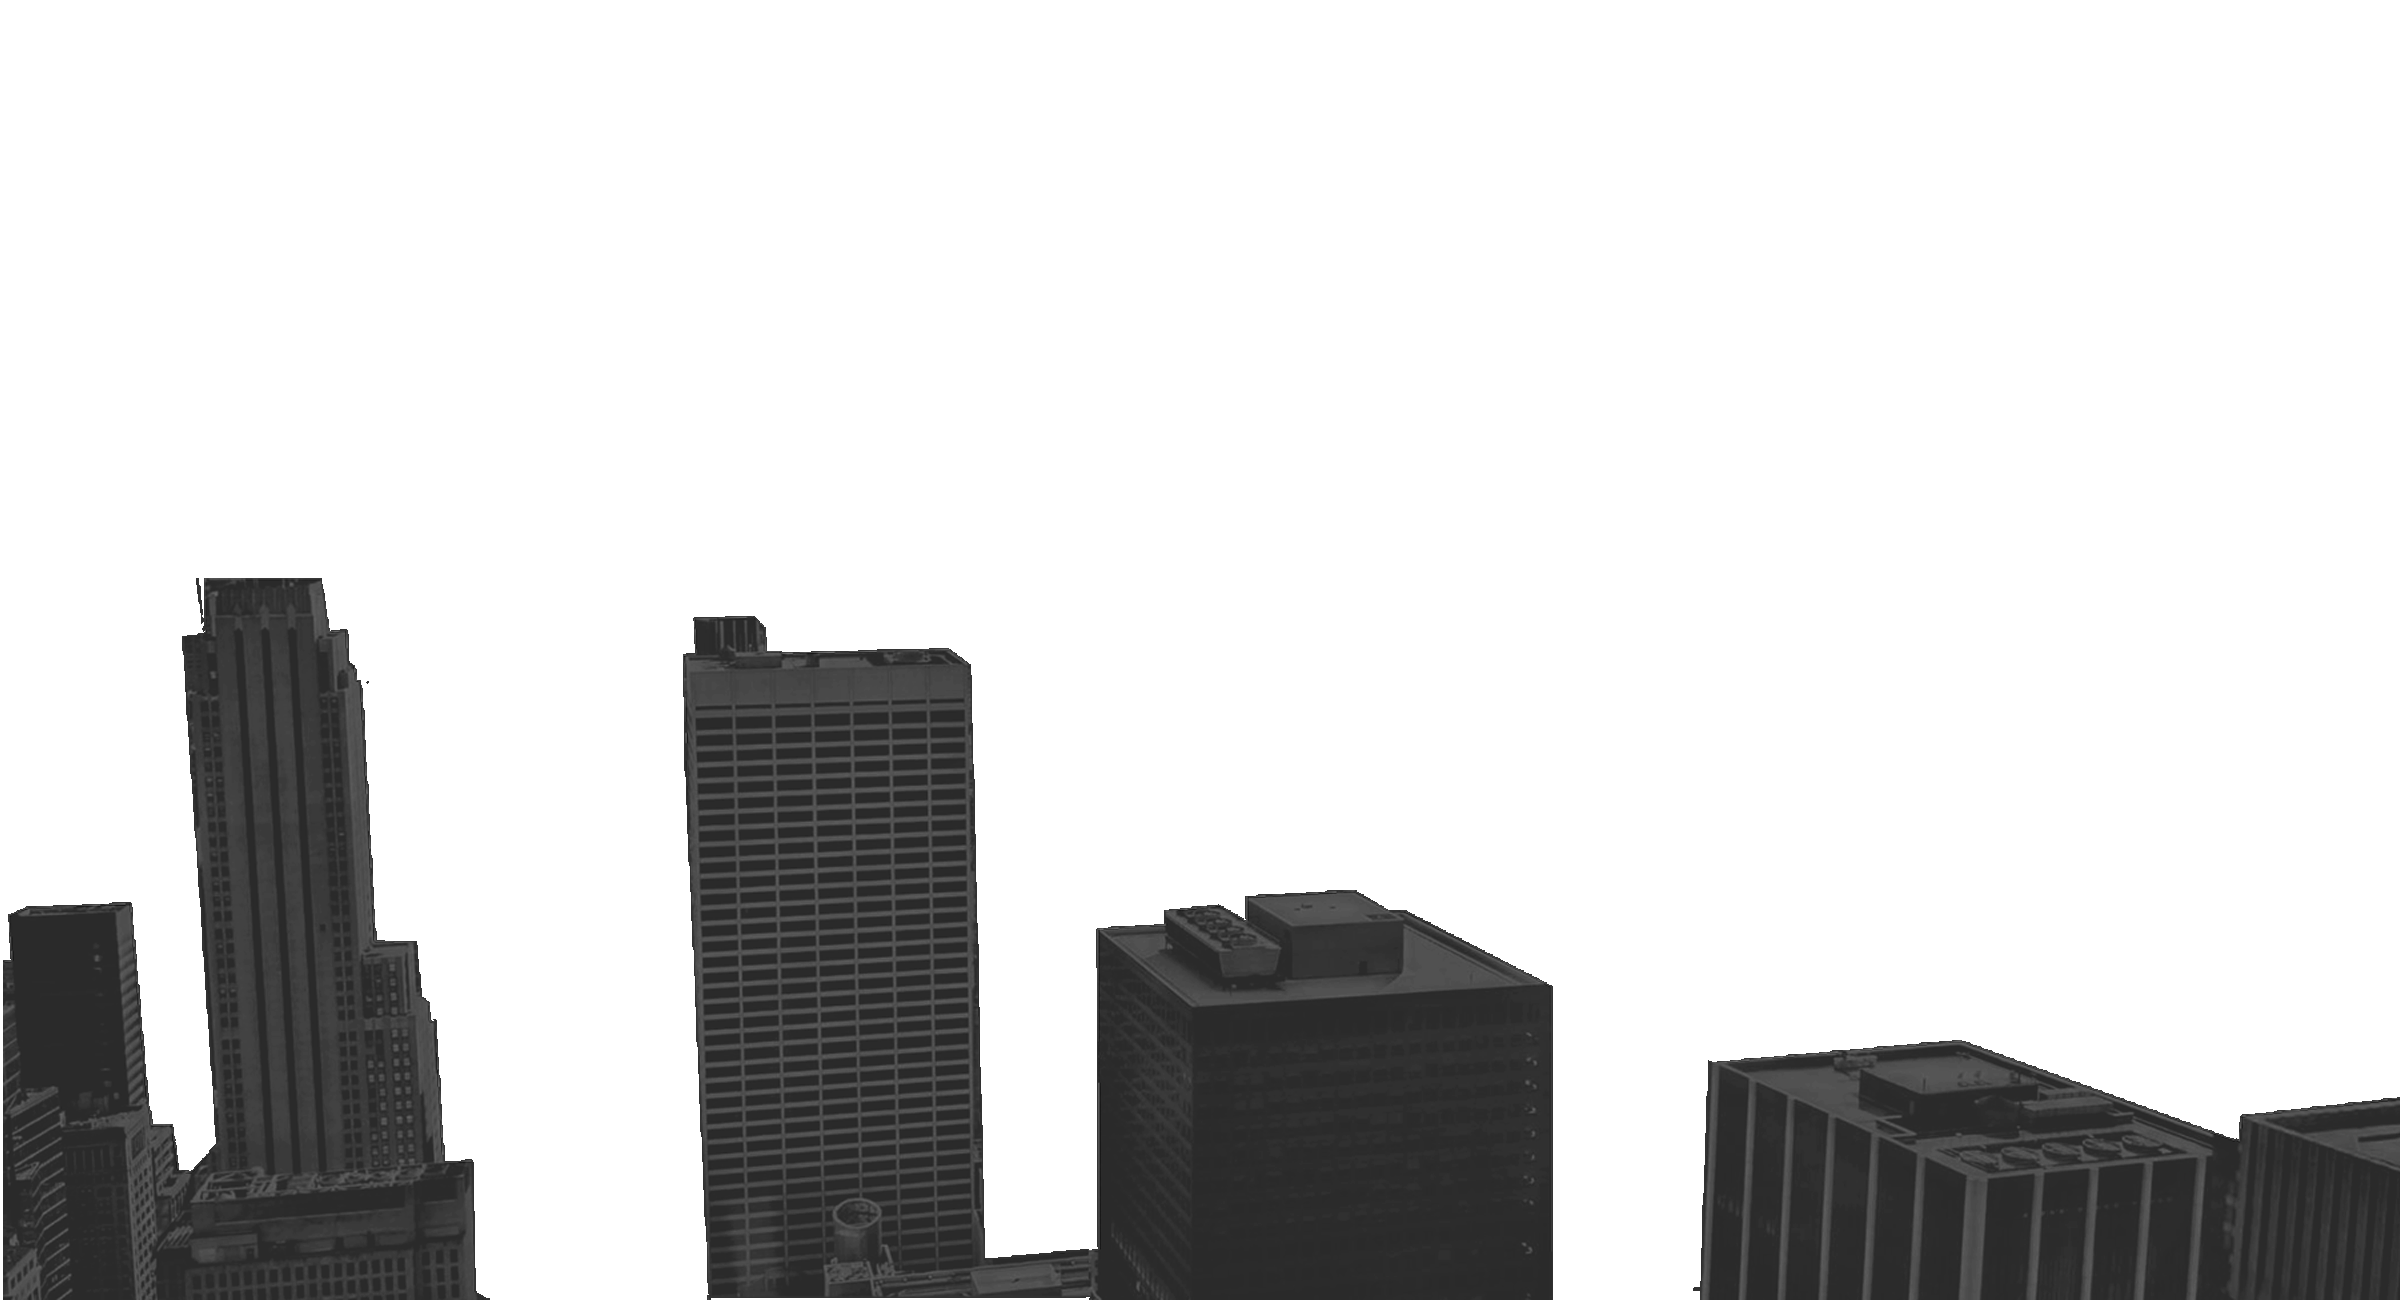
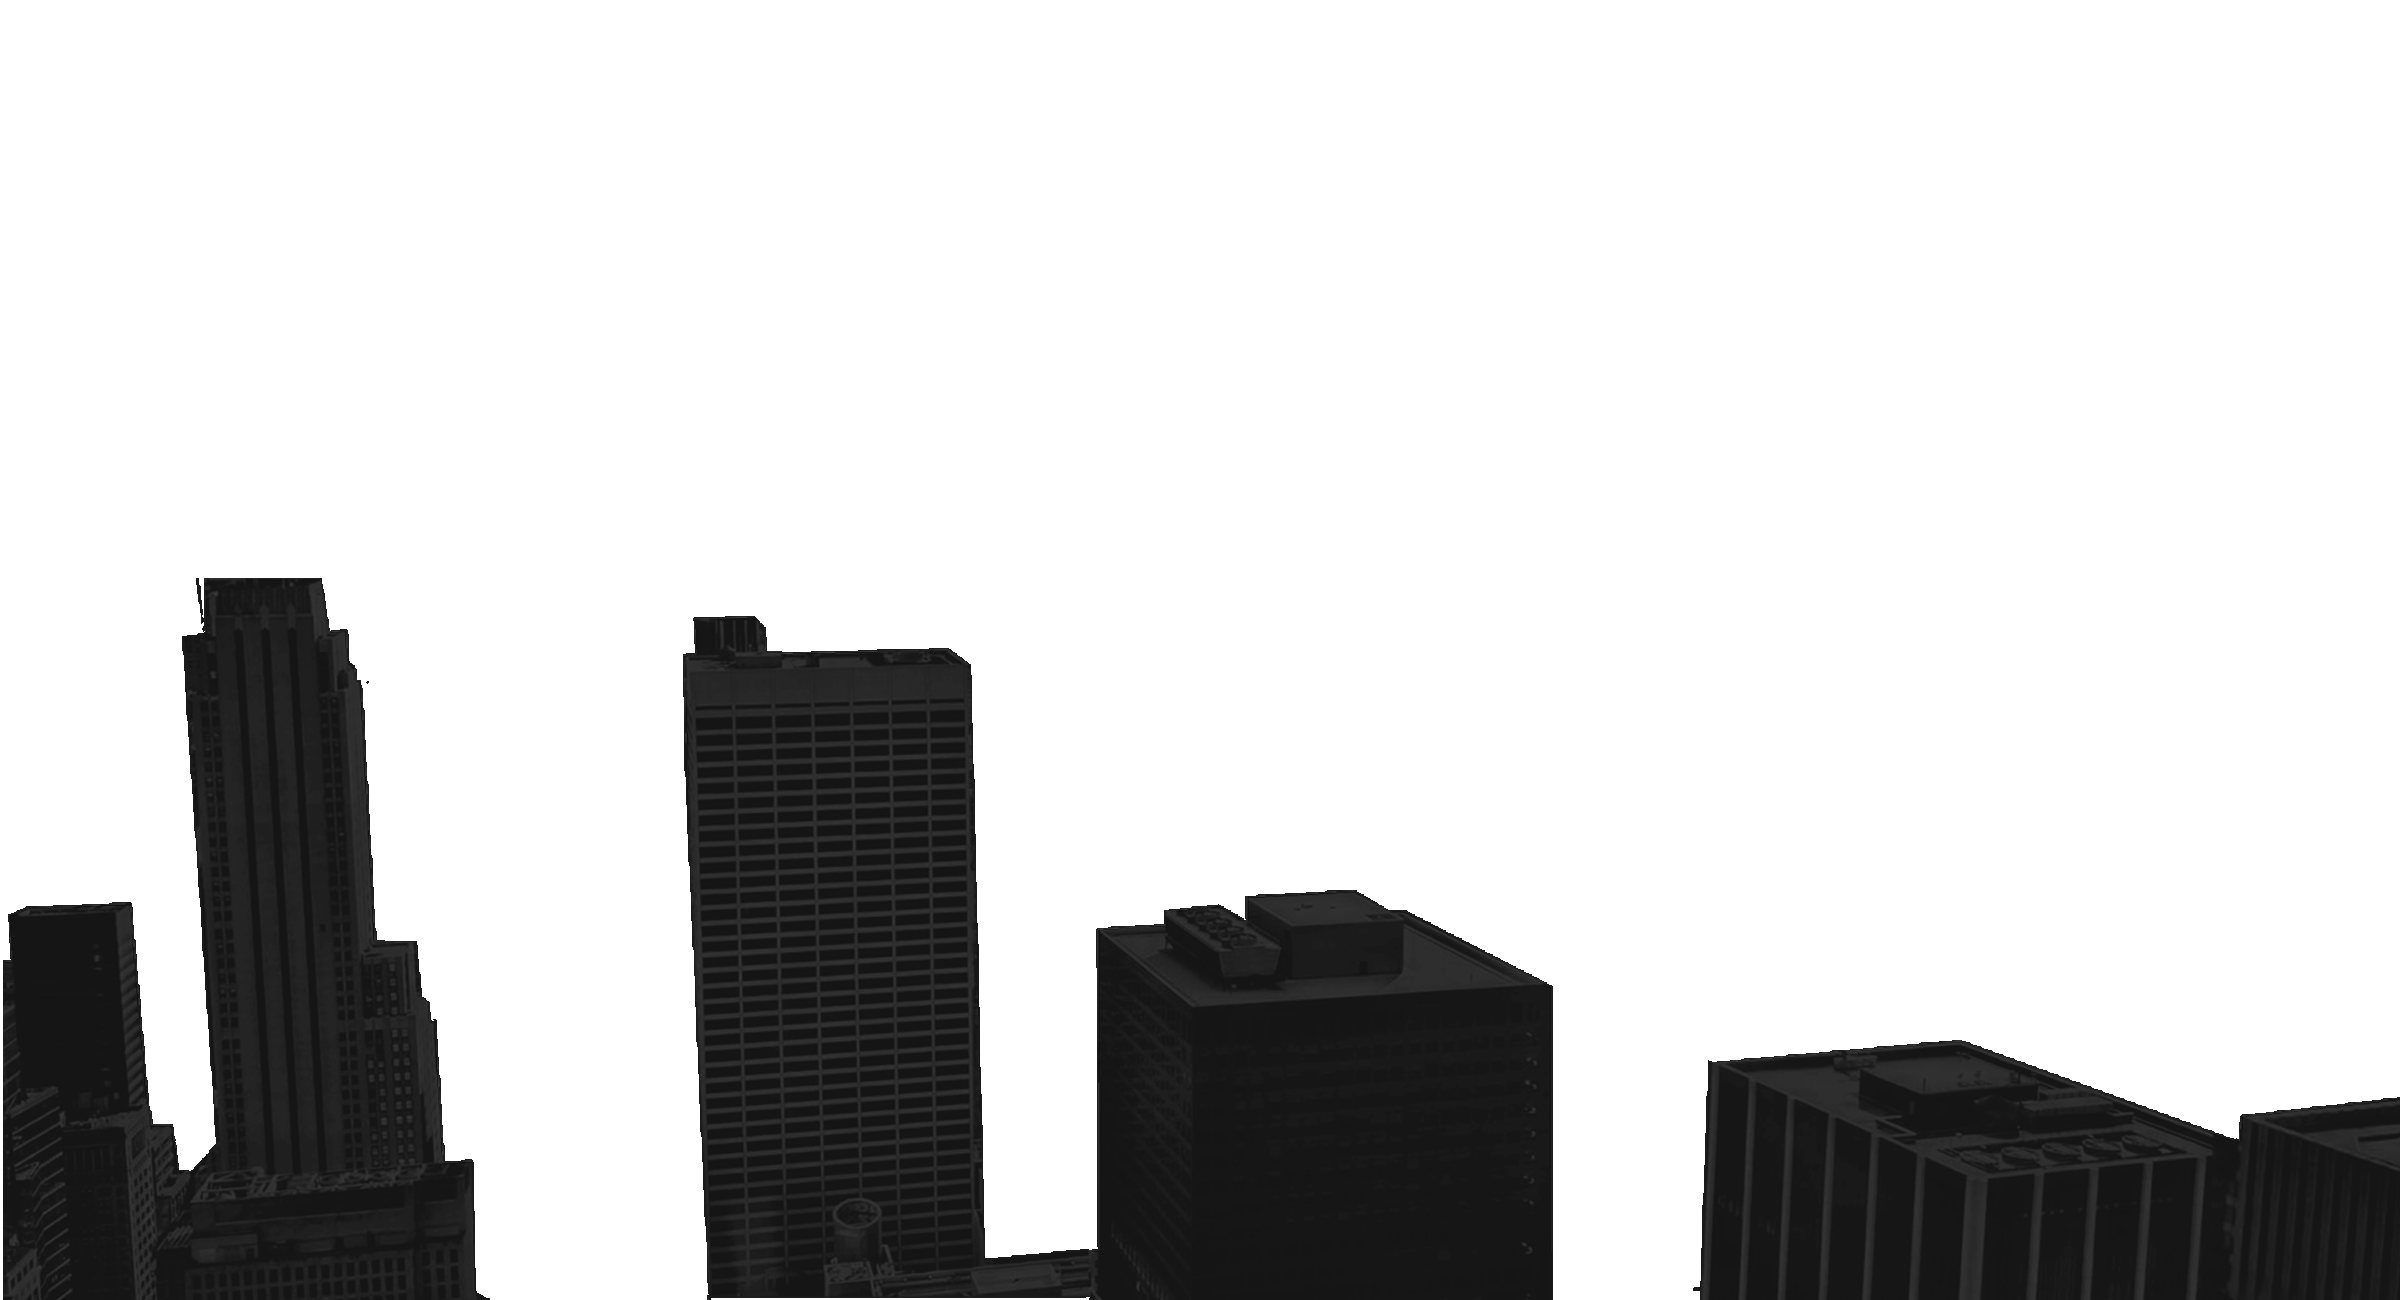
Almost There

diff --git a/js/index.js b/js/index.js
@@ -50,7 +50,7 @@ if (!isMobile()){
 //) && (window.matchMedia("(min-width: 850px)").matches) {
 					/* the view port is at least 850 pixels wide */
 $('#fullpage').fullpage({
-                sectionsColor: ['#212121' , '#677077', '#677077', '#677077', '#B5B5B7'],
+                sectionsColor: ['#212121' , '#677077', '#677077', '#212121'],
                 anchors: ['1stPage', '2ndPage', '3rdPage', '4thPage'],
                 menu: '#menu',
                 scrollingSpeed: 800,
@@ -64,7 +64,12 @@ $('#fullpage').fullpage({
 					$('body').addClass('loaded');
 					$(this).dequeue();});
 					$('#section0 img').delay(1000).fadeTo(1000, 0); 
-
+					$('#section0 img').delay(1000).fadeTo(1000, 0); 
+					//$('.header-top').delay(3000).fadeIn(1000);
+					$('.header-top').delay(3000).animate({
+                            marginTop: '0px',
+                            opacity: 1
+                        }, 500);
                     $('#section0 #header').delay(2500).animate({
                             marginTop: '0px',
                             opacity: 1
@@ -83,12 +88,16 @@ $('#fullpage').fullpage({
                     }
 
 					if(index == 1){
-						
+						$('.one').css('background','#FFFFFF');
+						$('.two').css('background','#FFFFFF');
+						$('.three').css('background','#FFFFFF');
 					}
 					
                     if(index == 2)
 					{	
-                        
+                        $('.one').css('background','#212121');
+						$('.two').css('background','#212121');
+						$('.three').css('background','#212121');
 						//$("#section1 a").hover(
 						  //function(){
 							//if ( $(window).width() > 850) {
@@ -128,11 +137,17 @@ $('#fullpage').fullpage({
 							$('.bar .java').delay(2000).css('width', '60%');
 							$('.bar .c').delay(2500).css('width', '60%');
 						}
+						
+						$('.one').css('background','#F2b632');
+						$('.two').css('background', '#F2b632');
+						$('.three').css('background','#F2b632');
 					}				
 				
 					if(index == 4)
 					{
-						
+						$('.one').css('background','#FFFFFF');
+						$('.two').css('background','#FFFFFF');
+						$('.three').css('background','#FFFFFF');
 					}
 					
 					$('#moveTo').click(function(e){
@@ -151,13 +166,19 @@ $('#fullpage').fullpage({
                         $('#section0 i').delay(2700).animate({
                                 opacity: 1,
                                 marginBottom: '1px'
-                            }, 500);  
+                            }, 500); 
+						//$('.one').css('background','#FFFFFF');
+						//$('.two').css('background','#FFFFFF');
+						//$('.three').css('background','#FFFFFF');
 					});
 					
 					$('.goTo2').click(function(e){
 						e.preventDefault();
 						$.fn.fullpage.moveTo(2);
 						$('#section1 a').delay(500).fadeIn('1000');
+						//$('.one').css('background','#252839');
+						//$('.two').css('background','#252839');
+						//$('.three').css('background','#252839');
 
 					});
                     
@@ -168,6 +189,9 @@ $('#fullpage').fullpage({
                             marginTop: '-1px',
                             opacity: 1
                         }, 500);
+						//$('.one').css('background','#F2b632');
+						//$('.two').css('background', '#F2b632');
+						//$('.three').css('background','#F2b632');
                         //$('#section2 h1').delay(500).animate({
                         //    marginTop: '-1px',
                         //    opacity: 1
@@ -188,6 +212,9 @@ $('#fullpage').fullpage({
                         if ( $(window).width() < 850) { 
                            $('#section3 #form-main').delay(1500).fadeIn('1000');
                         }
+						//$('.one').css('background','#FFFFFF');
+						//$('.two').css('background','#FFFFFF');
+						//$('.three').css('background','#FFFFFF');
 					});
 				},
                 onLeave: function(index, nextIndex, direction) {
@@ -197,6 +224,9 @@ $('#fullpage').fullpage({
                     if(index == 1 && direction == "down")
 					{
                         $('#section1 a').delay(500).fadeIn('1000');
+						//$('.one').css('background','#252839');
+						//$('.two').css('background','#252839');
+						//$('.three').css('background','#252839');
 					}
                     
 					if(index == 2 && direction == "up")
@@ -208,8 +238,11 @@ $('#fullpage').fullpage({
                         $('#section0 i').delay(2700).animate({
                                 opacity: 1,
                                 marginBottom: '1px'
-                            }, 500);   
-                        }
+                            }, 500); 
+						//$('.one').css('background','#FFFFFF');
+						//$('.two').css('background','#FFFFFF');
+						//$('.three').css('background','#FFFFFF');			
+                    }
 					
                     if(index == 2 && direction == "down")
 					{
@@ -217,15 +250,24 @@ $('#fullpage').fullpage({
                             marginTop: '-1px',
                             opacity: 1
                         }, 500);
+						//$('.one').css('background','#F2b632');
+						//$('.two').css('background', '#F2b632');
+						//$('.three').css('background','#F2b632');
 					}
                     
 					if(index == 3 && direction =='up'){
 						$('#section1 a').delay(500).fadeIn('1000');
+						//$('.one').css('background','#252839');
+						//$('.two').css('background','#252839');
+						//$('.three').css('background','#252839');
 					}
 					
                     if(index == 3 && direction =='down'){
                         $('#section3 #me').delay(500).fadeIn('1000');
                         $('#section3 #form-main').delay(500).fadeIn('1000');
+						//$('.one').css('background','#FFFFFF');
+						//$('.two').css('background','#FFFFFF');
+						//$('.three').css('background','#FFFFFF');
                     }
 					
 					if(index == 4 && direction =='up'){
@@ -233,6 +275,9 @@ $('#fullpage').fullpage({
                             marginTop: '-1px',
                             opacity: 1
                         }, 500);
+						//$('.one').css('background','#F2b632');
+						//$('.two').css('background', '#F2b632');
+						//$('.three').css('background','#F2b632');
 					}
                 },
                 afterSlideLoad: function( anchorLink, index, slideAnchor, slideIndex)

diff --git a/css/style2.css b/css/style2.css
@@ -49,7 +49,6 @@ svg
 }
 
 .popup {
-  background-color: #424242;
   position: relative;
   margin: auto;
 }
@@ -236,12 +235,16 @@ svg
 
 /* CSS for Section 1, Page 2, WORK */
 
-#section1, #section2
+#section1
 {
-    background: url('../img/geometry-bluegray.jpg');
-    background-repeat: repeat;
+	border-bottom: thick solid #F2b632;
+}
+
+#section1
+{
+    background: url('../img/stepsG.jpg');
     background-attachment: fixed;
-    background-size: initial;
+    background-size: cover;
 }
 
 #section2
@@ -256,6 +259,11 @@ svg
 	-ms-transform: skewY(10deg);
 	-o-transform: skewY(10deg);
 	transform: skewY(10deg);
+}
+
+#section1 a
+{
+	transition: all .5s;
 }
 
 #section1 a:hover
@@ -293,6 +301,12 @@ svg
 #section1 #diag2 #gDesign:hover #cameraSVG
 {
     width: 32%;
+}
+
+#section1 #diag1 a:hover,
+#section1 #diag2 a:hover 
+{
+	font-size: 1.02em;
 }
 
 #section1 #over
@@ -341,6 +355,7 @@ svg
 	right: 8%;
     position: absolute;
 	display: none;
+	margin-bottom: -50px;
 }
 
 #section1 #deskWork
@@ -372,8 +387,8 @@ svg
 
 #section1 #wDesign h2
 {
-    color: #252839;
-    border-bottom: #252839 solid 10px;
+    color: #212121;
+    border-bottom: #212121 solid 10px;
 }
 
 #section1 h5
@@ -518,6 +533,14 @@ svg
 	transform: skewY(-10deg);
 	border-bottom: thick solid white;
 	margin-top: -10%;
+	z-index: 2;
+	opacity: 0.95;
+	
+}
+
+#section1 #diag1:hover
+{
+	opacity: 1;
 }
 
 #section1 #diag2
@@ -610,14 +633,17 @@ svg
 
 #section2
 {
-    //background: url('../img/geometry-blue.jpg');
-    
+    background: url('../img/desktop.jpg');
+	background-size: cover;
+	background-attachment: fixed;
 }
 
 #section2 h1
 {
     border: thick solid #EEEEEE;
 	color: #EEEEEE;
+	border: thick solid #F2B632;
+	color: #F2B632;
     display: inline-block;
 	text-align: center;
     margin: auto;
@@ -694,7 +720,7 @@ svg
 
 #section2 p
 {
-    color: #BDBDBD;
+    color: #FFFFFF;
 	overflow: hidden;
 }
 
@@ -704,9 +730,9 @@ svg
 	height: 45%;
 	bottom: 0px;
 	width: 100%;
-	background: #757575;
     overflow: hidden;
     border-top: thick solid #E0E0E0;
+	min-height: 280px;
 }
 
 #left, #right
@@ -746,13 +772,13 @@ svg
 #left
 {
 	left: 0px;
-	background: url(../img/developer.jpg) no-repeat center; 
+	background: url(../img/developerY.jpg) no-repeat center; 
 }
 
 #right
 {
 	right: 0px;
-    background: url(../img/designer.jpg) no-repeat center;
+    background: url(../img/designerY.jpg) no-repeat center;
 }
 
 #left, #right
@@ -913,7 +939,7 @@ svg
 	font-size: 18px;
 	border-radius: 0;
 	line-height: 22px;
-	background-color: rgba(41,50,65,0.5);
+	background-color: rgba(255,255,255,0.1);
     border: 2px solid #F2B632;
 	padding: 13px 13px 13px 54px;
 	margin-bottom: 10px;
@@ -1065,6 +1091,7 @@ input:focus, textarea:focus {
     left: 0;
     font-size: 1.3em;
     padding: 10px;
+	color: #F2b632;
 }
 
 #infoR

diff --git a/index.html b/index.html
@@ -22,7 +22,7 @@
     (DONE) SWAP SKILLS AND WORK
     (DONE) STYLE FOOTER
     (HOLD OFF) NAV AGAIN
-    COLOR SCHEME
+    (DONE)COLOR SCHEME
 	LOGO REDESIGN
 	MINIFY JS AND CSS
 	LINKEDiN
@@ -330,7 +330,7 @@
     }
 
     .layer2 {
-        background-image: url(img/foreground-db.png);
+        background-image: url(img/foreground-b.png);
         background-size: cover;
         background-position: center;
         position: absolute;
@@ -341,7 +341,7 @@
     }
 
     .layer1 {
-        background-image: url(img/background-db.jpg);
+        background-image: url(img/skyline_darkSminG.jpg);
         background-position: center;
         background-size: cover;
         position: absolute;
@@ -509,6 +509,8 @@
         width: 100%;
         z-index: 12;
         box-sizing: border-box;
+		opacity: 0;
+		margin-top: -60px;
     }
 
     .menu-section.on {
@@ -713,7 +715,7 @@
 	#section0 #leftSlant,
 	#section0 #rightSlant
 	{
-		background: rgba(242,182,50,0.9);
+		background: rgba(242,182,50,1);
 		width: 60.0018%;
 		height: 200px;
 		position: absolute;
@@ -743,11 +745,11 @@
     #section0 i
     {
         font-size: 50px;
-        color: #252839;
+        color: #212121;
         transition: all .5s;
         position: absolute;
         z-index: 10;
-        bottom: 3%;
+        bottom: 10px;
         left: 0;
         right: 0;
         cursor: pointer;
@@ -1577,6 +1579,7 @@ else if (/^\S+@[a-z0-9_.-]+\.[a-z]{2,6}$/i.test(document.hgmailer.email.value) =
            <div id="topSkills">
 			<div id="heading">
 				<h1>SKILLS</h1>
+				<p>jQuery | WordPress</p>
             </div>
            </div>
             <div id="bottomSkills" class="popup">
